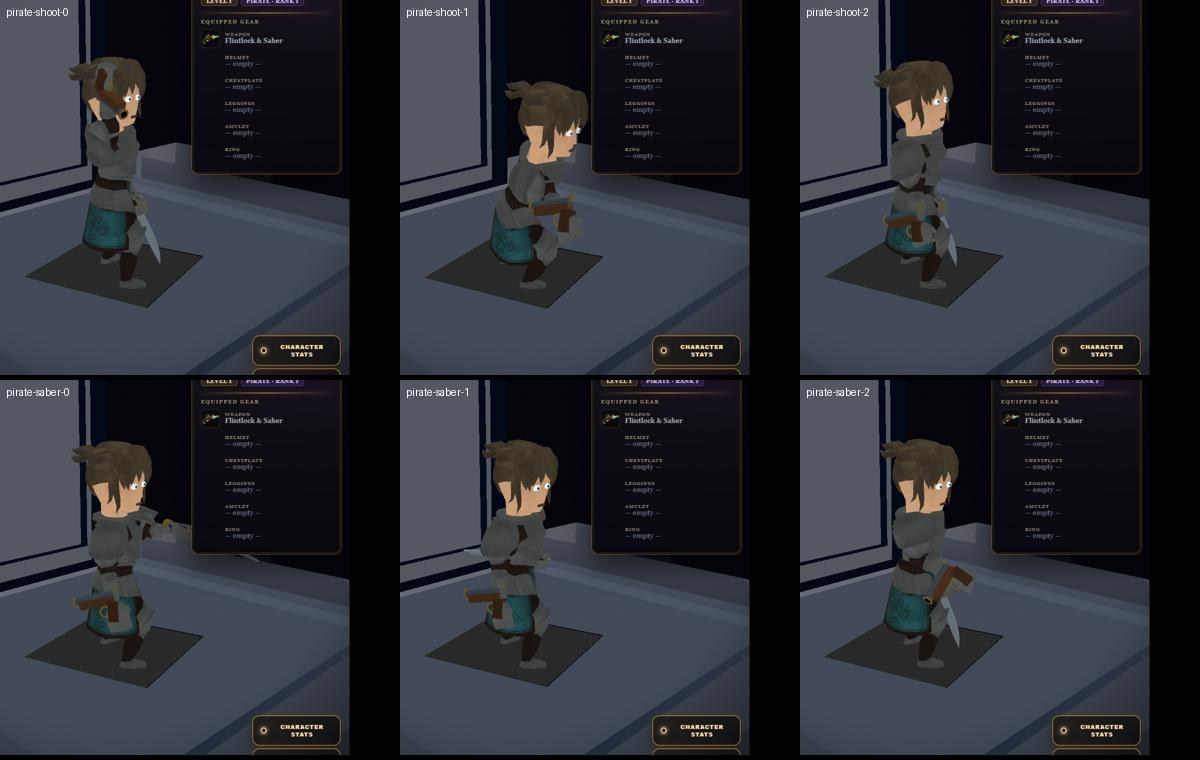
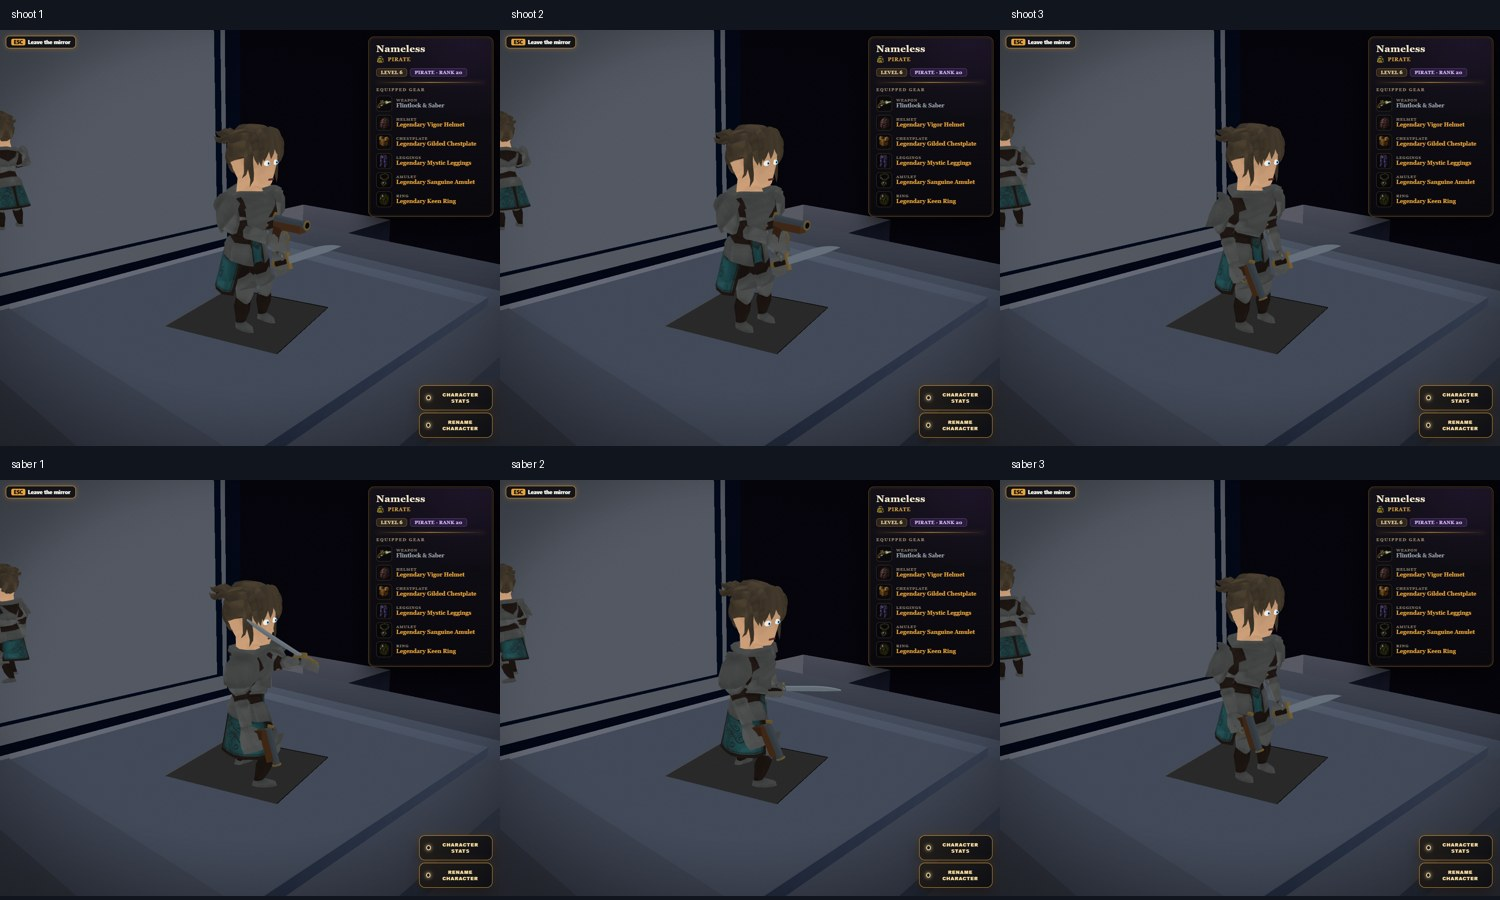
Correct Pirate palm grips and aim; give Paladin holy gold colors

diff --git a/public/3d/hero3d.js b/public/3d/hero3d.js
@@ -263,7 +263,7 @@ const CLASS_SKINS = {
   reaper:       { id:'c_reaper',       metal:'#7a2028', leather:'#1a1418', lift:1.22 },
   ninja:        { id:'c_ninja',        metal:'#454e60', leather:'#16181f', lift:1.24 },
   // Cleric body
-  paladin:      { id:'c_paladin',      metal:'#eee4c9', leather:'#a18550', cloth:'#344d68', lift:1.08 },
+  paladin:      { id:'c_paladin',      metal:'#f5d889', leather:'#aa7c36', cloth:'#eee3bc', lift:1.32 },
   // Monk body
   monk:         { id:'c_monk',         metal:'#d8792a', leather:'#6a4a2c', lift:1.32 },
   // Ranger body
@@ -1003,15 +1003,21 @@ async function equipWeapon(actor, opts){
     const makePart=(group,geometry,color,x,y,z)=>{const m=new THREE.Mesh(geometry,new THREE.MeshLambertMaterial({color}));m.position.set(x,y,z);m.castShadow=true;m.userData._weap=true;m.userData.signaturePart=true;group.add(m);return m;};
     // These grips are authored at the palm origin, in rig metres. Never inherit a sword mesh's offset or scale.
     const gun=new THREE.Group();gun.name='PirateFlintlock';gun.userData._weap=true;rig.bone.add(gun);
+    // Barrel follows the fingers/forearm (+Y); grip crosses the fist (-X), like the artist's sword handle.
+    gun.rotation.z=Math.PI/2;
+    // WeaponR is above the palm. Center the handle inside the skinned fist, not at that socket.
+    gun.position.set(-.085,.024,-.045);
     makePart(gun,new THREE.BoxGeometry(.12,.24,.12),'#65432c',0,0,0).rotation.z=-.18;
-    makePart(gun,new THREE.BoxGeometry(.43,.095,.115),'#805333',.17,-.14,0);
-    makePart(gun,new THREE.CylinderGeometry(.047,.058,.49,12),'#687581',.20,-.20,0).rotation.z=-Math.PI/2;
-    makePart(gun,new THREE.TorusGeometry(.052,.013,5,12),'#be9b52',.445,-.20,0).rotation.y=Math.PI/2;
-    makePart(gun,new THREE.CylinderGeometry(.037,.037,.007,12),'#161c23',.451,-.20,0).rotation.z=-Math.PI/2;
+    makePart(gun,new THREE.BoxGeometry(.43,.095,.115),'#805333',.17,.14,0);
+    makePart(gun,new THREE.CylinderGeometry(.047,.058,.49,12),'#687581',.20,.20,0).rotation.z=-Math.PI/2;
+    makePart(gun,new THREE.TorusGeometry(.052,.013,5,12),'#be9b52',.445,.20,0).rotation.y=Math.PI/2;
+    const muzzle=makePart(gun,new THREE.CylinderGeometry(.037,.037,.007,12),'#161c23',.451,.20,0);muzzle.rotation.z=-Math.PI/2;muzzle.name='PirateMuzzle';
     makePart(gun,new THREE.TorusGeometry(.064,.012,5,10),'#be9b52',.105,-.01,0);
-    makePart(gun,new THREE.BoxGeometry(.035,.08,.035),'#be9b52',-.065,-.245,0).rotation.z=-.4;
+    makePart(gun,new THREE.BoxGeometry(.035,.08,.035),'#be9b52',-.065,.245,0).rotation.z=-.4;
     const saber=new THREE.Group();saber.name='PirateSaber';saber.userData._weap=true;saber.userData.pirateSaber=true;
-    saber.position.copy(rig.bone.position);saber.position.x*=-1;hand.add(saber);
+    // The left fist has its own origin; mirroring WeaponR puts the handle against its outside face.
+    saber.position.set(.03,.057,-.005);hand.add(saber);
+    saber.rotation.z=-Math.PI/2; // left-hand mirror: blade exits at the thumb (+X), not along the fingers
     makePart(saber,new THREE.CylinderGeometry(.044,.05,.22,8),'#382c26',0,0,0);
     makePart(saber,new THREE.SphereGeometry(.061,8,5),'#bc984e',0,-.14,0);
     const guard=makePart(saber,new THREE.TorusGeometry(.105,.018,5,12,Math.PI),'#c2a15d',0,0,0);guard.rotation.z=Math.PI/2;
@@ -1019,7 +1025,6 @@ async function equipWeapon(actor, opts){
     const blade=new THREE.Shape();blade.moveTo(-.047,.14);blade.lineTo(.06,.14);blade.lineTo(.09,.60);blade.quadraticCurveTo(.10,.87,.015,1.05);blade.lineTo(-.015,.80);blade.lineTo(-.047,.14);
     const bladeMesh=makePart(saber,new THREE.ExtrudeGeometry(blade,{depth:.025,bevelEnabled:false,curveSegments:5}),'#c1d2de',0,0,-.0125);
     bladeMesh.material.emissive.set('#111820');
-    saber.userData.restRotation=saber.rotation.clone();
     if(rig.stock)rig.stock.visible=false;
     actor._weap=gun;actor._weapGrip=null;
     return {name:'Flintlock & Saber',intrinsic:'pirate',paired:true,grip:'palm-local'};
@@ -1318,7 +1323,13 @@ function paintClassBody(root,cls,packOriginal=false){
     for(const m of (Array.isArray(o.material)?o.material:[o.material])){
       if(!('_srcMap' in m.userData))m.userData._srcMap=m.map||null;
       if(!m.userData._srcMap)continue;
-      m.map=packOriginal?m.userData._srcMap:repaintTexture(m.userData._srcMap,skin);m.needsUpdate=true;painted++;
+      m.map=packOriginal?m.userData._srcMap:repaintTexture(m.userData._srcMap,skin);
+      if(m.emissive){
+        if(!m.userData._paletteEmissive)m.userData._paletteEmissive={color:m.emissive.clone(),intensity:m.emissiveIntensity};
+        if(cls==='paladin'&&!packOriginal){m.emissive.set('#d9ac48');m.emissiveIntensity=.12;}
+        else{m.emissive.copy(m.userData._paletteEmissive.color);m.emissiveIntensity=m.userData._paletteEmissive.intensity;}
+      }
+      m.needsUpdate=true;painted++;
     }
   });return painted;
 }
@@ -1489,6 +1500,35 @@ async function boot(){
   }
 }
 
+// Two-bone right-arm aim. The pistol is rigid in the fist; the arm aims it instead of rotating it through the palm.
+function pirateWeaponPose(p,wrap,A,dt){
+  if(p.weapon?.intrinsic!=='pirate'){A.pirateAim=0;return;}
+  const aiming=p.atkTimer>0&&!(p.saberSwingT>0)&&!p.dead&&!p.combatPose?.remaining;
+  A.pirateAim=THREE.MathUtils.damp(A.pirateAim||0,aiming?1:0,aiming?32:16,dt);
+  const weight=A.pirateAim;if(weight<.002)return;
+  if(A.pirateRoot!==wrap){A.pirateRoot=wrap;A.pirateBones=['UpperArmR','LowerArmR','FistR','Fist1R'].map(n=>wrap.getObjectByName(n));}
+  const [upper,lower,wrist,fingers]=A.pirateBones;if(!upper||!lower||!wrist)return;
+  wrap.updateMatrixWorld(true);
+  const pos=b=>b.getWorldPosition(new THREE.Vector3()),s=pos(upper),e=pos(lower),w=pos(wrist);
+  const target=wrap.localToWorld(new THREE.Vector3(-.40,1.50,.72));
+  const hint=wrap.localToWorld(new THREE.Vector3(-.82,1.20,.25));
+  const l1=s.distanceTo(e),l2=e.distanceTo(w),delta=target.clone().sub(s),dist=Math.min(delta.length(),(l1+l2)*.995),dir=delta.normalize();
+  const along=(l1*l1+dist*dist-l2*l2)/(2*Math.max(.001,dist));
+  const bend=hint.sub(s);bend.addScaledVector(dir,-bend.dot(dir)).normalize();
+  const elbow=s.clone().addScaledVector(dir,along).addScaledVector(bend,Math.sqrt(Math.max(0,l1*l1-along*along)));
+  const aimBone=(bone,to)=>{
+    const q=bone.getWorldQuaternion(new THREE.Quaternion()),axis=new THREE.Vector3(0,1,0).applyQuaternion(q);
+    const desired=new THREE.Quaternion().setFromUnitVectors(axis,to.clone().sub(pos(bone)).normalize()).multiply(q);
+    desired.premultiply(bone.parent.getWorldQuaternion(new THREE.Quaternion()).invert());
+    bone.quaternion.slerp(desired,weight);bone.updateMatrixWorld(true);
+  };
+  aimBone(upper,elbow);aimBone(lower,target);
+  const frame=new THREE.Matrix4().makeBasis(new THREE.Vector3(0,-1,0),new THREE.Vector3(0,0,1),new THREE.Vector3(-1,0,0));
+  const aim=wrap.getWorldQuaternion(new THREE.Quaternion()).multiply(new THREE.Quaternion().setFromRotationMatrix(frame));
+  aim.premultiply(wrist.parent.getWorldQuaternion(new THREE.Quaternion()).invert());wrist.quaternion.slerp(aim,weight);
+  if(fingers)fingers.quaternion.slerp(new THREE.Quaternion(),weight);
+  wrap.updateMatrixWorld(true);
+}
 function playFor(p, A){
   // pick a clip from the game's own player state, so the 3D hero animates off real gameplay
   const moving = Math.hypot(p.vx || 0, p.vz || 0) > 20 && p.onGround;
@@ -1522,7 +1562,7 @@ function playFor(p, A){
     staff:      'Staff_Attack',
     wand:       pick('Spell1', 'Spell2'),
     bow:        'Bow_Shoot',
-    flintlock:  p.weapon?.intrinsic==='pirate'?'Spell1':'Bow_Shoot',
+    flintlock:  p.weapon?.intrinsic==='pirate'?'Idle':'Bow_Shoot',
     cross:      'Bow_Shoot',
     javelin:    'Staff_Attack',
     fist:       'Punch',
@@ -1835,9 +1875,25 @@ export function drawHero3D(p, t){
     wrap.updateMatrixWorld(true);
     showOnly(wrap);
 
+    // Undo last frame's procedural arm layer before sampling the next clip. Some clips
+    // omit finger/shoulder tracks, so otherwise aiming or mirrored swings accumulate.
+    if(anim.piratePoseApplied){
+      for(const [bone,q] of anim.piratePoseBase||[])bone.quaternion.copy(q);
+      anim.piratePoseApplied=false;
+    }
     playFor(p, anim);
     if(anim.mixer) anim.mixer.update(dt);
     movingCombatLegs(p,anim,dt);
+    if(p.weapon?.intrinsic==='pirate'){
+      if(anim.piratePoseRoot!==wrap){
+        anim.piratePoseRoot=wrap;anim.piratePoseBase=[];
+        for(const part of ['Shoulder','UpperArm','LowerArm','Fist','Fist1','Fist2'])for(const side of ['L','R']){
+          const bone=wrap.getObjectByName(part+side);if(bone)anim.piratePoseBase.push([bone,bone.quaternion.clone()]);
+        }
+      }
+      for(const [bone,q] of anim.piratePoseBase)q.copy(bone.quaternion);
+      anim.piratePoseApplied=true;
+    }
     if(p.saberSwingT>0&&p.weapon?.intrinsic==='pirate'){
       // The stock sword clip is right-handed. Mirror its arm pose for the off-hand saber.
       for(const part of ['Shoulder','UpperArm','LowerArm','Fist','Fist1','Fist2']){
@@ -1845,7 +1901,7 @@ export function drawHero3D(p, t){
         const q=l.quaternion.clone();l.quaternion.set(r.quaternion.x,-r.quaternion.y,-r.quaternion.z,r.quaternion.w);r.quaternion.set(q.x,-q.y,-q.z,q.w);
       }
     }
-    wrap.traverse(o=>{if(o.userData.pirateSaber&&o.userData.restRotation){o.rotation.copy(o.userData.restRotation);if(p.saberSwingT>0)o.rotation.z+=Math.sin((1-p.saberSwingT/.42)*Math.PI)*1.8;}});
+    pirateWeaponPose(p,wrap,anim,dt);
     if(_isLocal)colorWeapon(localWeaponHolder(),p.weapon);
     else if(rec)colorWeapon(rec.holder,p.weapon);
     /* Force the skeleton to recompute. Three normally does this during projectObject, but in a

diff --git a/public/3d/art-previews/classes/index.html b/public/3d/art-previews/classes/index.html
@@ -1,1 +1,1 @@
-<!doctype html><html lang="en"><meta charset="utf-8"><meta name="viewport" content="width=device-width,initial-scale=1"><title>Bladefall — Class colors and grips</title><style>body{margin:0 auto;padding:24px;max-width:1300px;background:#10131a;color:#eee;font:17px/1.5 system-ui}a{color:#d7bc81}h1{font-size:28px}section{display:grid;grid-template-columns:repeat(auto-fit,minmax(280px,1fr));gap:16px}figure{margin:0;background:#1e2330;border-radius:10px;overflow:hidden}img{width:100%;display:block}figcaption{padding:10px}p{max-width:850px}</style><h1>Class colors &amp; weapon grips</h1><p>September 20, 2026 · Build 1.983. Existing character models with individual class colors. Tap a picture for the full-size view.</p><p><a href="../../?mute=1">Open the game</a> · <a href="../../animation-preview.html">Enemy animation preview</a></p><section><figure><a href="warrior.jpg"><img loading="lazy" src="warrior.jpg" alt="Warrior class color and equipped starting weapon"></a><figcaption>Warrior</figcaption></figure><figure><a href="ranger.jpg"><img loading="lazy" src="ranger.jpg" alt="Ranger class color and equipped starting weapon"></a><figcaption>Ranger</figcaption></figure><figure><a href="mage.jpg"><img loading="lazy" src="mage.jpg" alt="Mage class color and equipped starting weapon"></a><figcaption>Mage</figcaption></figure><figure><a href="reaper.jpg"><img loading="lazy" src="reaper.jpg" alt="Reaper class color and equipped starting weapon"></a><figcaption>Reaper</figcaption></figure><figure><a href="paladin.jpg"><img loading="lazy" src="paladin.jpg" alt="Paladin class color and equipped starting weapon"></a><figcaption>Paladin</figcaption></figure><figure><a href="necromancer.jpg"><img loading="lazy" src="necromancer.jpg" alt="Necromancer class color and equipped starting weapon"></a><figcaption>Necromancer</figcaption></figure><figure><a href="ninja.jpg"><img loading="lazy" src="ninja.jpg" alt="Ninja class color and equipped starting weapon"></a><figcaption>Ninja</figcaption></figure><figure><a href="berserker.jpg"><img loading="lazy" src="berserker.jpg" alt="Berserker class color and equipped starting weapon"></a><figcaption>Berserker</figcaption></figure><figure><a href="pirate.jpg"><img loading="lazy" src="pirate.jpg" alt="Pirate class color and equipped starting weapon"></a><figcaption>Pirate</figcaption></figure><figure><a href="chronomancer.jpg"><img loading="lazy" src="chronomancer.jpg" alt="Chronomancer class color and equipped starting weapon"></a><figcaption>Chronomancer</figcaption></figure><figure><a href="monk.jpg"><img loading="lazy" src="monk.jpg" alt="Monk class color and equipped starting weapon"></a><figcaption>Monk</figcaption></figure><figure><a href="stormcaller.jpg"><img loading="lazy" src="stormcaller.jpg" alt="Stormcaller class color and equipped starting weapon"></a><figcaption>Stormcaller</figcaption></figure><figure><a href="warlock.jpg"><img loading="lazy" src="warlock.jpg" alt="Warlock class color and equipped starting weapon"></a><figcaption>Warlock</figcaption></figure><figure><a href="skylancer.jpg"><img loading="lazy" src="skylancer.jpg" alt="Skylancer class color and equipped starting weapon"></a><figcaption>Skylancer</figcaption></figure><figure><a href="bladedancer.jpg"><img loading="lazy" src="bladedancer.jpg" alt="Bladedancer class color and equipped starting weapon"></a><figcaption>Bladedancer</figcaption></figure><figure><a href="beastmaster.jpg"><img loading="lazy" src="beastmaster.jpg" alt="Beastmaster class color and equipped starting weapon"></a><figcaption>Beastmaster</figcaption></figure></section><h2>Pirate firing and saber poses</h2><p>Three captured moments from each motion. Top row: firing. Bottom row: off-hand saber attack.</p><a href="pirate-motion.jpg"><img src="pirate-motion.jpg" alt="Pirate firing and saber attack pose sequence"></a></html>
+<!doctype html><html lang="en"><meta charset="utf-8"><meta name="viewport" content="width=device-width,initial-scale=1"><title>Bladefall — Class colors and grips</title><style>body{margin:0 auto;padding:24px;max-width:1300px;background:#10131a;color:#eee;font:17px/1.5 system-ui}a{color:#d7bc81}h1{font-size:28px}section{display:grid;grid-template-columns:repeat(auto-fit,minmax(280px,1fr));gap:16px}figure{margin:0;background:#1e2330;border-radius:10px;overflow:hidden}img{width:100%;display:block}figcaption{padding:10px}p{max-width:850px}</style><h1>Class colors &amp; weapon grips</h1><p>September 20, 2026 · Build 1.985. Existing character models with individual class colors. Tap a picture for the full-size view.</p><p><a href="../../?mute=1">Open the game</a> · <a href="../../animation-preview.html">Enemy animation preview</a></p><section><figure><a href="warrior.jpg"><img loading="lazy" src="warrior.jpg" alt="Warrior class color and equipped starting weapon"></a><figcaption>Warrior</figcaption></figure><figure><a href="ranger.jpg"><img loading="lazy" src="ranger.jpg" alt="Ranger class color and equipped starting weapon"></a><figcaption>Ranger</figcaption></figure><figure><a href="mage.jpg"><img loading="lazy" src="mage.jpg" alt="Mage class color and equipped starting weapon"></a><figcaption>Mage</figcaption></figure><figure><a href="reaper.jpg"><img loading="lazy" src="reaper.jpg" alt="Reaper class color and equipped starting weapon"></a><figcaption>Reaper</figcaption></figure><figure><a href="paladin.jpg?v=1985"><img loading="lazy" src="paladin.jpg?v=1985" alt="Paladin class color and equipped starting weapon"></a><figcaption>Paladin</figcaption></figure><figure><a href="necromancer.jpg"><img loading="lazy" src="necromancer.jpg" alt="Necromancer class color and equipped starting weapon"></a><figcaption>Necromancer</figcaption></figure><figure><a href="ninja.jpg"><img loading="lazy" src="ninja.jpg" alt="Ninja class color and equipped starting weapon"></a><figcaption>Ninja</figcaption></figure><figure><a href="berserker.jpg"><img loading="lazy" src="berserker.jpg" alt="Berserker class color and equipped starting weapon"></a><figcaption>Berserker</figcaption></figure><figure><a href="pirate.jpg?v=1985"><img loading="lazy" src="pirate.jpg?v=1985" alt="Pirate class color and equipped starting weapon"></a><figcaption>Pirate</figcaption></figure><figure><a href="chronomancer.jpg"><img loading="lazy" src="chronomancer.jpg" alt="Chronomancer class color and equipped starting weapon"></a><figcaption>Chronomancer</figcaption></figure><figure><a href="monk.jpg"><img loading="lazy" src="monk.jpg" alt="Monk class color and equipped starting weapon"></a><figcaption>Monk</figcaption></figure><figure><a href="stormcaller.jpg"><img loading="lazy" src="stormcaller.jpg" alt="Stormcaller class color and equipped starting weapon"></a><figcaption>Stormcaller</figcaption></figure><figure><a href="warlock.jpg"><img loading="lazy" src="warlock.jpg" alt="Warlock class color and equipped starting weapon"></a><figcaption>Warlock</figcaption></figure><figure><a href="skylancer.jpg"><img loading="lazy" src="skylancer.jpg" alt="Skylancer class color and equipped starting weapon"></a><figcaption>Skylancer</figcaption></figure><figure><a href="bladedancer.jpg"><img loading="lazy" src="bladedancer.jpg" alt="Bladedancer class color and equipped starting weapon"></a><figcaption>Bladedancer</figcaption></figure><figure><a href="beastmaster.jpg"><img loading="lazy" src="beastmaster.jpg" alt="Beastmaster class color and equipped starting weapon"></a><figcaption>Beastmaster</figcaption></figure></section><h2>Pirate firing and saber poses</h2><p>Three captured moments from each motion. Top row: firing. Bottom row: off-hand saber attack.</p><a href="pirate-motion.jpg?v=1985"><img src="pirate-motion.jpg?v=1985" alt="Pirate firing and saber attack pose sequence"></a></html>

diff --git a/public/3d/index.html b/public/3d/index.html
@@ -1033,7 +1033,7 @@ details.baggroup[open]{grid-column:1 / -1;} details.baggroup summary:focus-visib
    (rarity loot, elements, 3-slot armor, achievements,
    skins + god cheat) ported 1:1 from the 2D game.
    ============================================================ */
-const VERSION3D='1.984.0-campaign-checkpoints';
+const VERSION3D='1.985.0-holy-gold-pirate-grips';
 
 /* ---------------- Persistence: shared "global" store + per-mode saves ----------------
    Global (skins/achievements/prefs/counters) is SHARED across modes. Each play MODE
@@ -21016,7 +21016,7 @@ window.__BF3={ campaignCheckpoint,captureCampaignCheckpoint,restartCampaignCheck
      and the level is exactly as generated. Never a reason to hold up boot. */
   ED.loadShipped();
 </script>
-<script type="module" src="./hero3d.js?v=1983g"></script>
+<script type="module" src="./hero3d.js?v=1985p"></script>
 <!-- The editor MODE (input, HUD, drag). Separate from editor.js on purpose: editor.js is the data
      layer the game depends on at load to replay saved edits, and a fault in the UI must never be
      able to stop a level from applying them. Loaded last, and inert until F2. -->

diff --git a/docs/requirements/DECISION_LOG.md b/docs/requirements/DECISION_LOG.md
@@ -67,3 +67,12 @@ Resumed approved queue. Release 1.983.0 implements 16 class palettes and Pirate 
 ## 2026-09-20 | Completed-half checkpoint foundation | SAVE-01–04
 
 Release 1.984.0 replaces live provisional campaign autosaves with committed half-entry snapshots. All save-local fields captured, so class XP, gear, gold, optional rewards and character progress roll back together. Normal deaths retry the current half; reload/title/disconnect retain completed halves. Per-player co-op checkpoints and host transition/retry/completion messages; explicit permadeath and secondary-mode rules preserved. Evidence: ../IMPLEMENTATION_CHECKPOINTS_2026-09-20.md. Tests cover real browser save writes/reloads/death UI and controlled two-browser messages; no claim of live WebRTC reliability. New five-shard/dialogue/world content still pending.
+
+## 2026-09-20 | Paladin gold and Pirate orientation correction | VISUAL-REVIEW-02
+
+Other class looks accepted. Paladin must be light gold / holy light, replacing navy cloth. Pirate grips explicitly rejected again: stable attachment distance did not prove correct direction or human handling. Measured right WeaponR local +X points backward; left saber +Y follows fingers rather than the stock grip cross-axis. Correct anatomical grip axes and forward aiming pose, inspect multiple angles and test muzzle direction relative to character facing. Continue main dialogue/quest implementation after correction. Prior visual sign-off is superseded for Pirate and Paladin.
+
+
+## September 20 — VISUAL-REVIEW-03
+
+All weapon grips must sit inside the closed hand, without handles visibly cutting through the outside of the fist or guards/blades/barrels intersecting it. Check every supported body/weapon fit in idle, movement, basic and charged attacks. Do not replace hand-adjusted fits globally without inspecting them. Full visual audit remains open.

diff --git a/docs/requirements/CONTINUITY.md b/docs/requirements/CONTINUITY.md
@@ -44,3 +44,8 @@ d60f15b (1.983.0) pushed to main and confirmed live in browser. All 16 class pal
 ## Production verification — September 20
 
 c9e1fe3 pushed to main. Cloudflare Pages check succeeded (deployment f7da7374-5336-4bd9-9457-79a2f804cf6e). Production browser confirmed 1.984.0-campaign-checkpoints, checkpoint API loaded, 3D renderer ready with no renderer error. Class gallery loaded at phone width (390px), 17 images, no horizontal overflow. Separate immutable private session archive decision-archive/2026-09-20-checkpoints contains 119 user-role messages, zero unparsed lines and valid source references.
+
+
+## September 20 — visual correction 1.985
+
+VISUAL-REVIEW-02/03 captured verbatim. Paladin pale gold/ivory; Pirate backward barrel and finger-axis saber corrected, palm centers based on skinned hand geometry. Forward aim uses arm IK; procedural arm transforms restored before next mixer sample to prevent accumulation. Seven browser pose checks passed (scripts/qa-pirate-palm-grips.cjs), multi-angle and firing/saber screenshots reviewed. Bounding-box containment is a regression check, not proof of every surface/animation. Full all-body/all-weapon grip audit remains OPEN; preserve existing hand-adjusted fits. Next main foundation remains canonical NPC dialogue/quest/journal and Briar Thomas/Mara slice. No other campaign overhaul claimed complete.

diff --git a/docs/REQUIREMENTS_REGISTER.md b/docs/REQUIREMENTS_REGISTER.md
@@ -222,3 +222,12 @@ ART-CLASS-01 verified for the 16 existing classes through browser palette checks
 ### Checkpoint evidence — 1.984.0
 
 SAVE-03/04 implemented for existing normal campaign with browser reload/death/route tests; SAVE-01 checkpoint consistency verified for player/class growth, inventory and hub transactions tested. SAVE-02 foundation banks existing secret pickup at half boundaries; new five-shard collection remains pending. Co-op individual state/transition/retry tested through controlled two-browser message relay; live WebRTC and future quest/dialogue synchronization still open. See IMPLEMENTATION_CHECKPOINTS_2026-09-20.md.
+
+### VISUAL-REVIEW-02 correction
+
+Paladin palette must be light gold/holy light. All other class colors accepted. Pirate handling still OPEN: user rejects pistol and saber direction; measure forward muzzle axis and anatomical cross-palm grip, not attachment distance alone.
+
+
+## September 20 — VISUAL-REVIEW-03
+
+GOV-05 / EQ-03 expanded acceptance: all supported weapon/body fits require an anatomical grip throughout animations. Parent-distance and forward-axis checks alone are insufficient. Source VISUAL-REVIEW-03; pending comprehensive visual audit.

diff --git a/UPDATE_ROADMAP.md b/UPDATE_ROADMAP.md
@@ -1686,3 +1686,7 @@ Distinct colors for 16 existing classes, same-body/mirror equipment refresh, Pir
 
 ## [Codex | 2026-09-20] 1.984.0 campaign checkpoints
 Normal campaign death/reload retries current half. Completed halves bank player/class XP, gold, equipment and local quest rewards together. Individual co-op checkpoints, shared retry/transition/completion events, legacy compatibility and safe spawn height. 24 route checkpoints and transaction/co-op browser checks passed; live WebRTC and future five-shard/dialogue systems remain pending. See docs/IMPLEMENTATION_CHECKPOINTS_2026-09-20.md.
+
+
+## 2026-09-20 - 1.985.0 Holy gold and Pirate grip correction
+Paladin ivory/light gold with restrained warm light. Pirate barrel and saber corrected to anatomical hand axes, handles centered inside fists, forward arm aim and non-accumulating procedural poses. Browser checked seven pose states and multi-angle screenshots. Full all-weapon/body visual audit remains open under VISUAL-REVIEW-03.

diff --git a/docs/requirements/USER_SOURCE_2026-09-20_IMPLEMENTATION.md b/docs/requirements/USER_SOURCE_2026-09-20_IMPLEMENTATION.md
@@ -53,3 +53,12 @@ when you do the step to apply the music into the game, make sure ot keep copies 
 ## 2026-09-20 | Resume main implementation | IMPLEMENTATION-RESUME-02
 
 alright please get back to the main implemetnation work
+
+## VISUAL-REVIEW-02 | 2026-09-20 | Exact user follow-up
+
+they all look good except paladin should be gold themed light gold holy lgiht. and the pirates pistol is being held compete ywrong and same with his saber. be caregful to make sure it looks like hjowa real person would handle those weapons. hes poniting the the wrong direction. and then agyer that, cotionue with the rest of implementation
+
+
+## VISUAL-REVIEW-03 — all weapon handles
+
+alsobe careful that the weapon handles for all handles arent clippiung into tht ehand of the charceter it looks bad, we should have it be inside the charcater hand, for all poses and adniamtions
